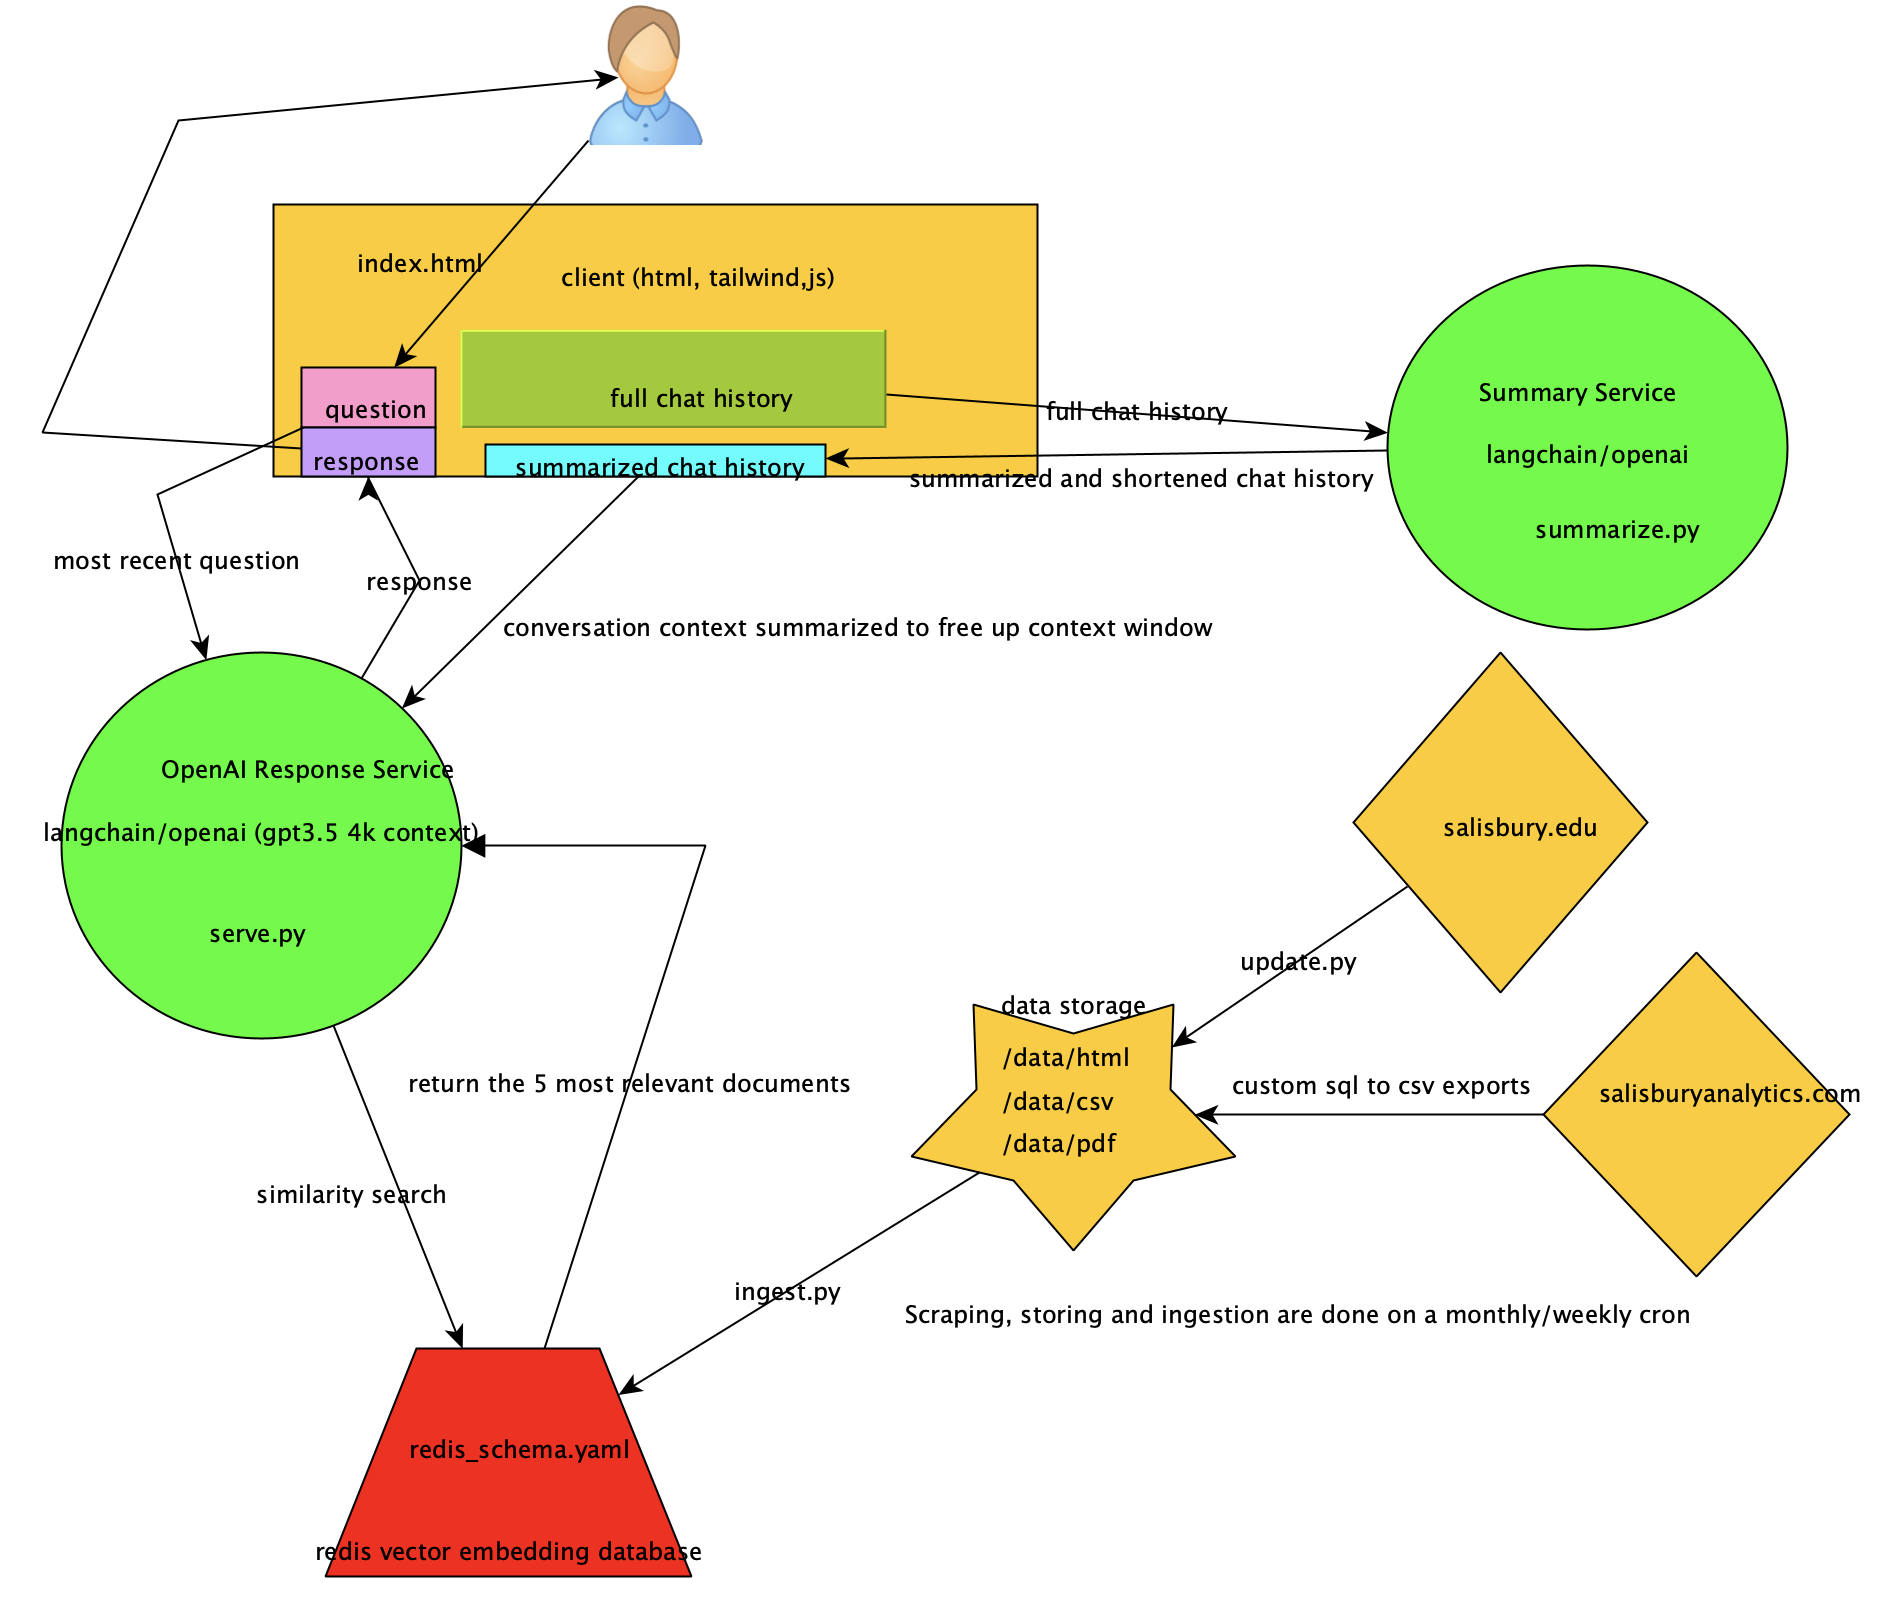
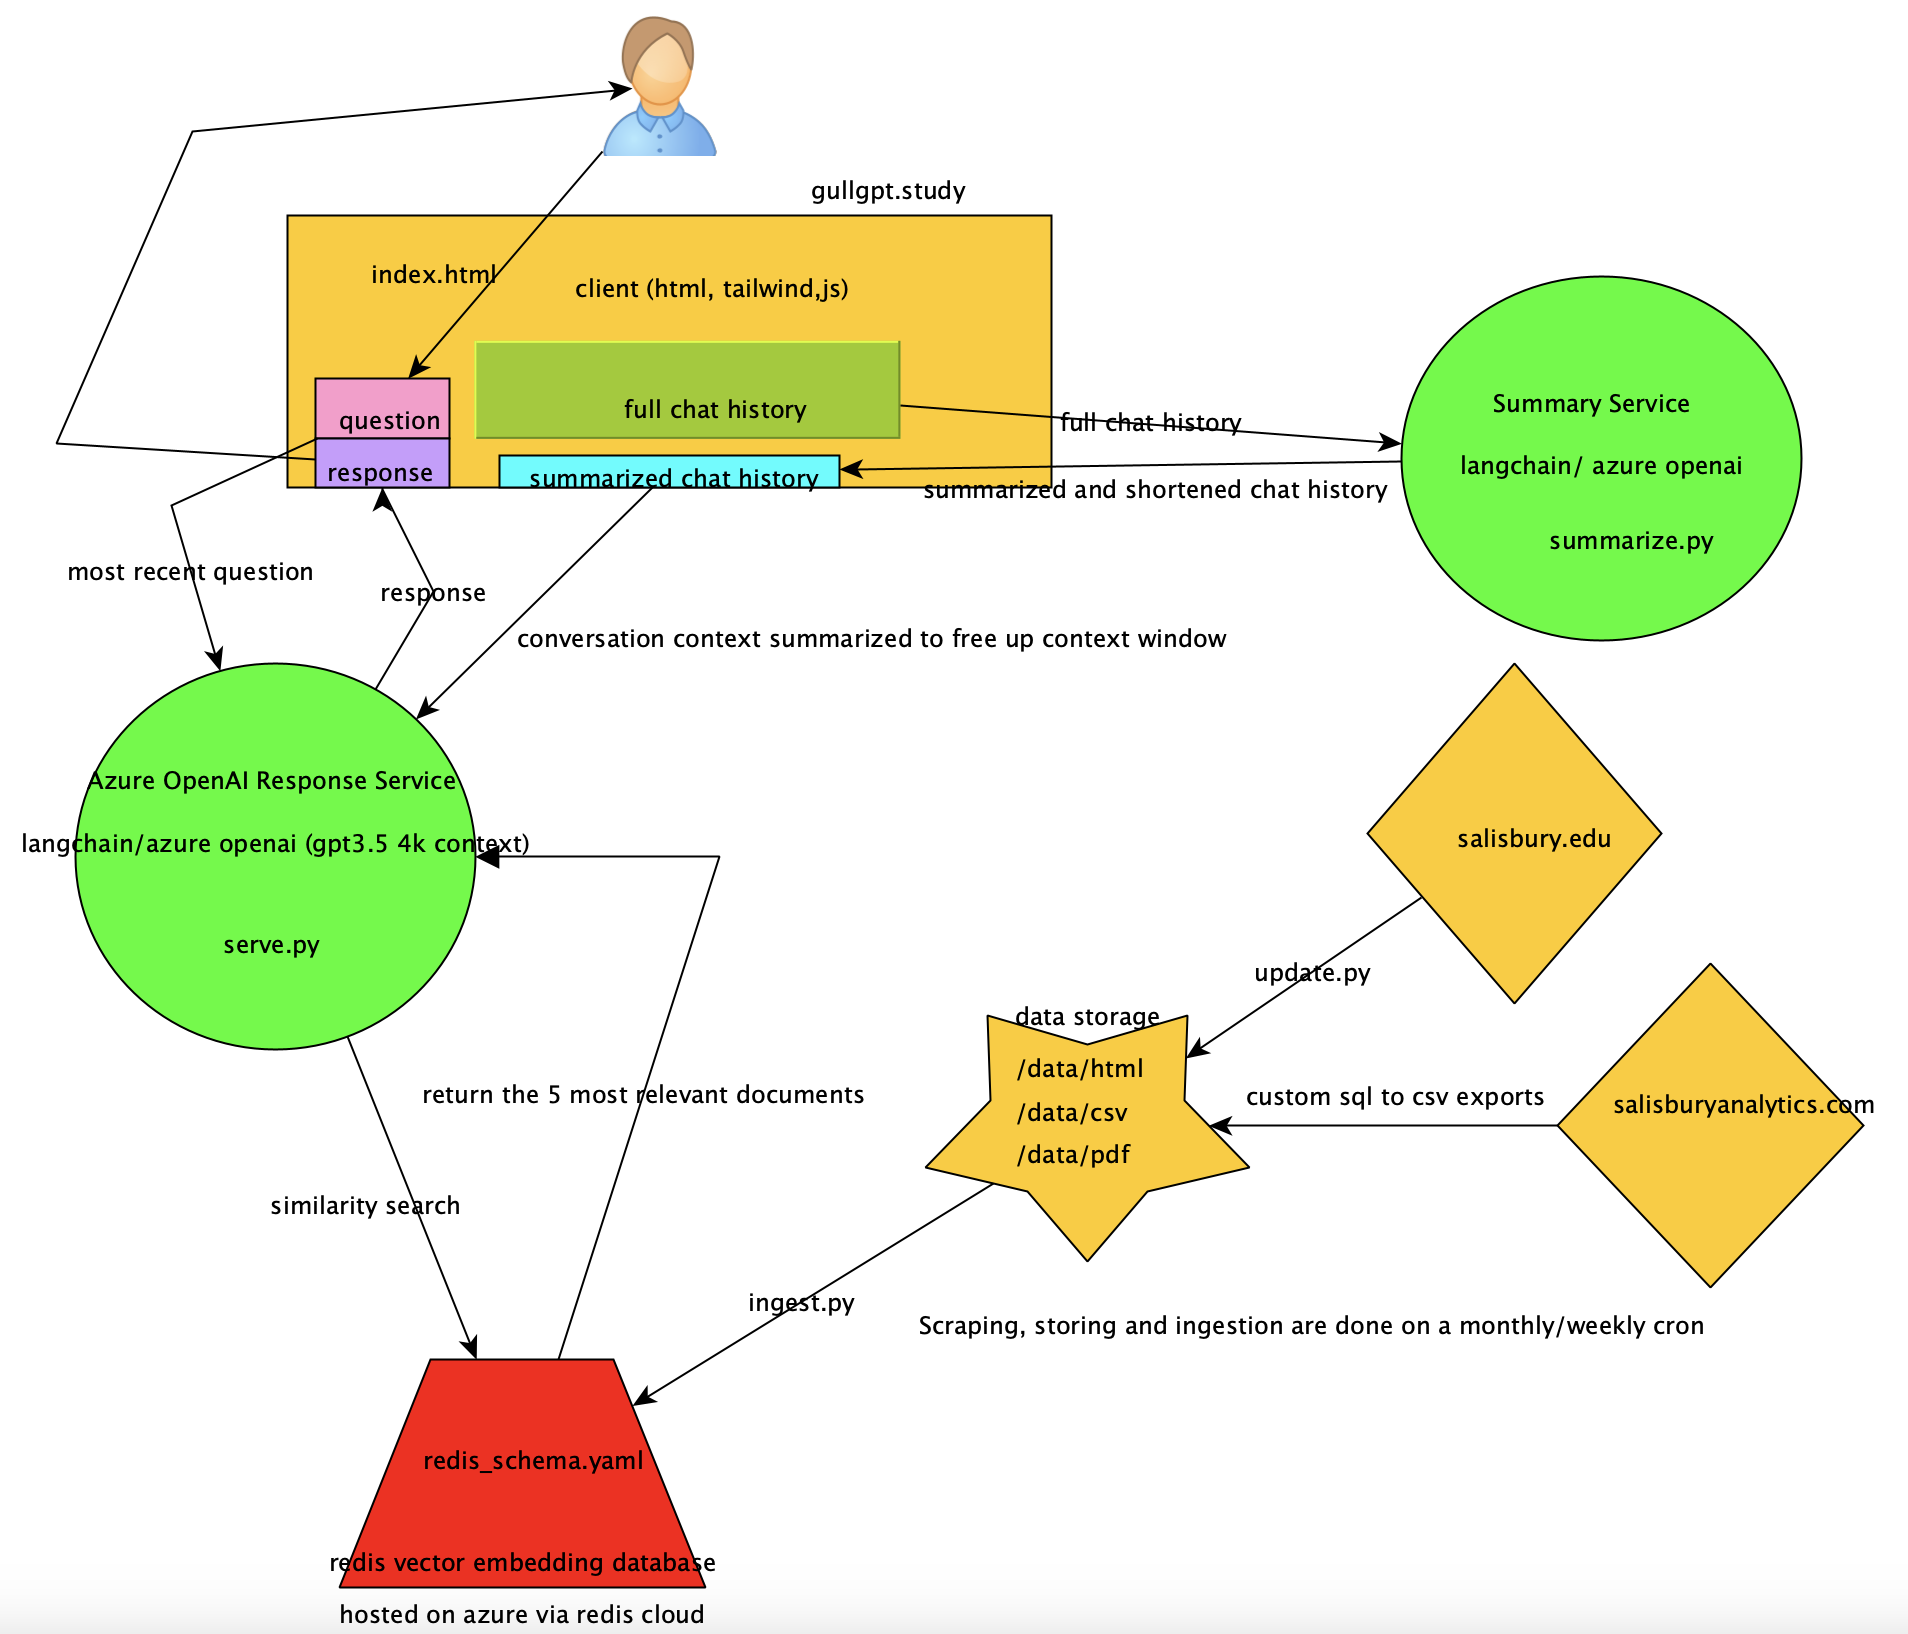
adding azure

diff --git a/README.md b/README.md
@@ -15,16 +15,16 @@
     - ![alt text](./documentation/redis_cost.png)
 - $5 per month linux vm, for document storage and running ETL scripts and langchain hosting
     - ![alt text](./documentation/vm_cost.png)
-- $3.75 in openAI credits over the weekend
+- $3.75 in openAI credits over the weekend (has switched to using azure open ai in production)
     - ![alt text](./documentation/openAI_cost.png)
 ## DEMO VIDEO
 - Isaac might do this?
 ## Tech
 - Python
-- Redis
+- Redis (hosted on azure via redis cloud)
 - Langchain
 - Langserve
 - Javascript
 - Tailwind CSS
 - HTML
-- OpenAI
+- Azure OpenAI
